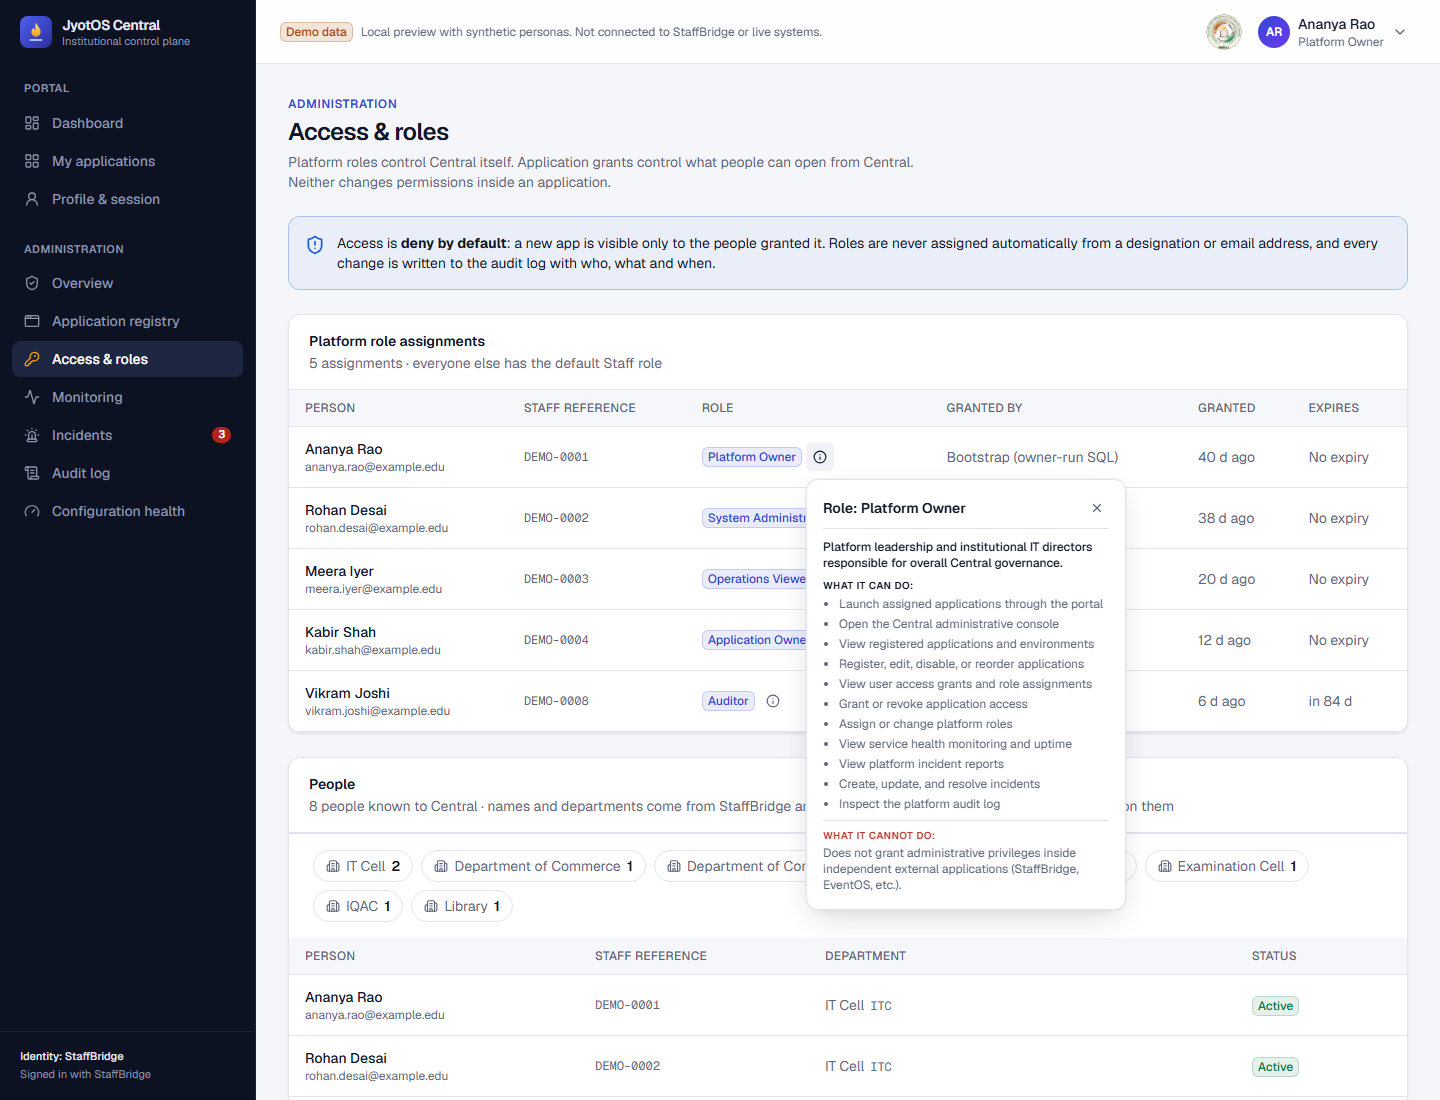
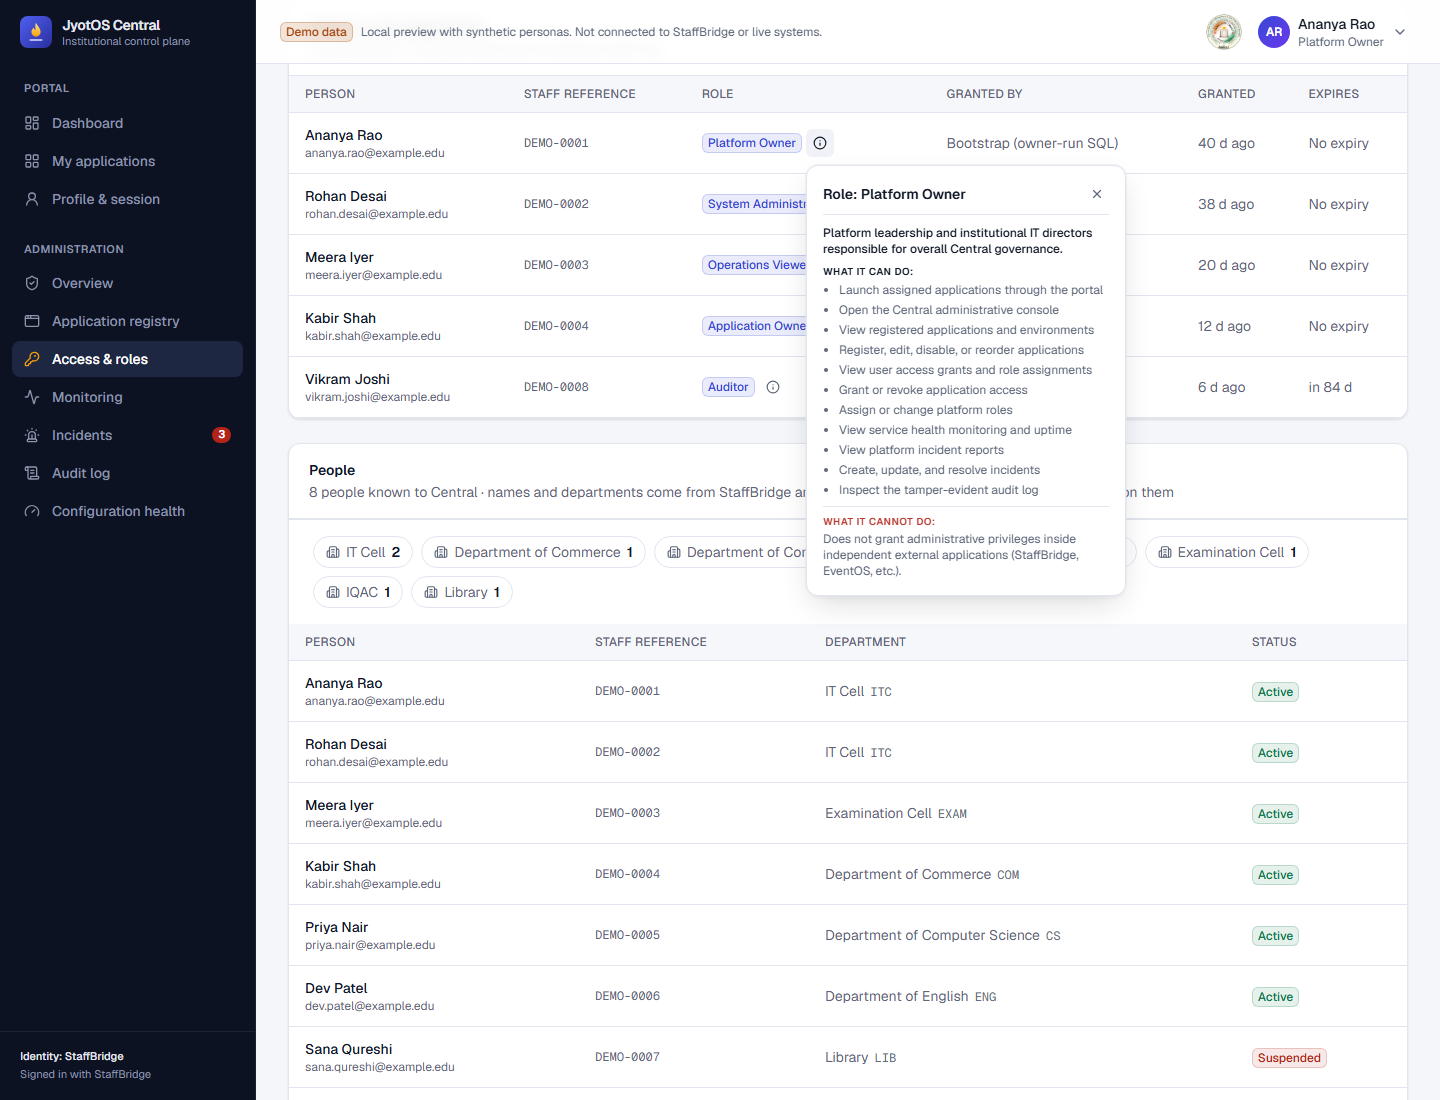
docs(v2): capture truthful unedited login crops and full role popover

diff --git a/start-here/sign-in-once.md b/start-here/sign-in-once.md
@@ -40,8 +40,8 @@ Open your web browser and navigate to **JyotOS Central** at [https://jyotos.verc
 
 On the login page, click **Sign in with College Account** or **Continue with StaffBridge**.
 
-![JyotOS Central sign-in page](../.gitbook/assets/central/central-login-light.png)
-*JyotOS Central sign-in page with institutional Google and StaffBridge Single Sign-On.*
+![JyotOS Central sign-in card](../.gitbook/assets/central/central-login-light.png)
+*JyotOS Central sign-in card with institutional StaffBridge Single Sign-On.*
 
 ### Step 3: Authenticate with Google
 
